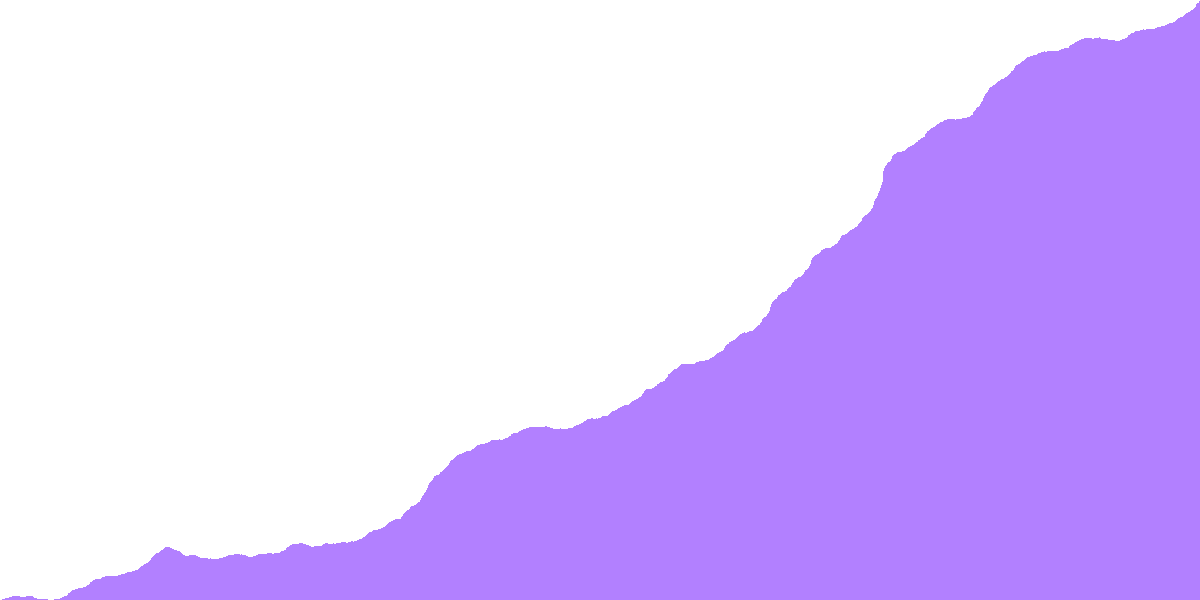
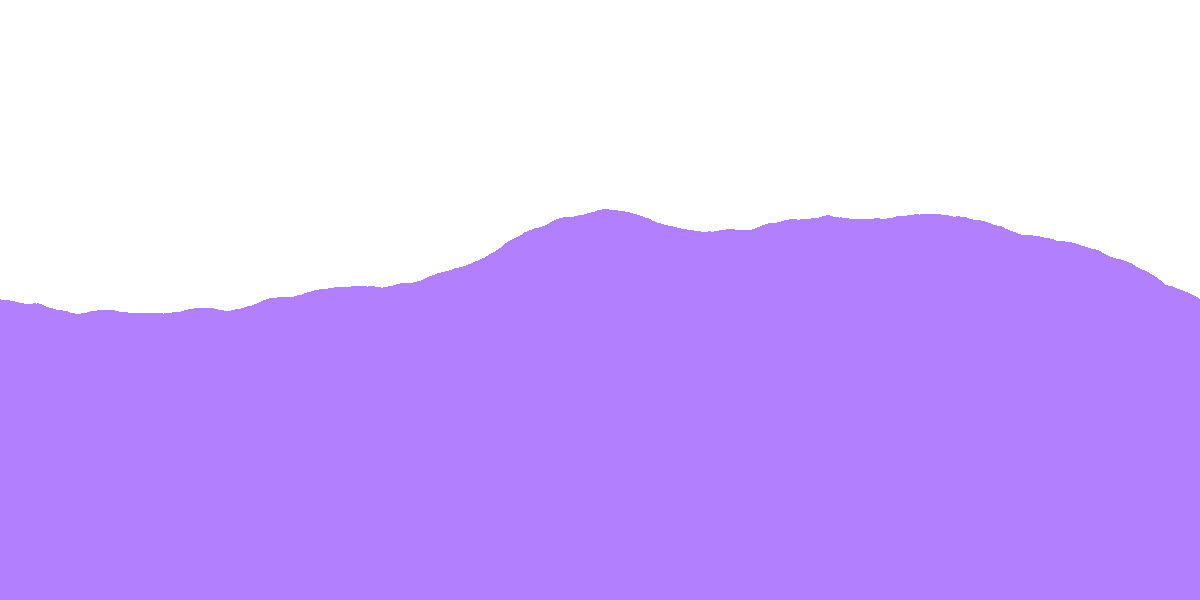
3

diff --git a/midpoint.py b/midpoint.py
@@ -5,7 +5,7 @@ import bisect
 import itertools
 import math
 
-def computeMidpoint(start, end, damp, displacement, numIterations = 10):
+def computeMidpoint(start, end, damp, displacement, numIterations, width, height):
 
     points = [start, end]
     for it in range(0, numIterations):
@@ -19,7 +19,7 @@ def computeMidpoint(start, end, damp, displacement, numIterations = 10):
         displacement /= 2
     return points
 
-def computeMidpointOrth(start, end, damp, displacement, numIterations = 2):
+def computeMidpointOrth(start, end, damp, displacement, numIterations, width, height):
 
     points = [start, end]
     for it in range(0, numIterations):
@@ -28,18 +28,24 @@ def computeMidpointOrth(start, end, damp, displacement, numIterations = 2):
             mid = list(map(lambda x: (points[i][x] + points[i+1][x]) / 2, [0,1]) )
             # compute orthognal direction
             d = [points[i][1] - points[i+1][1], points[i+1][0] - points[i][0]]
-            print(d)
-            dLen = math.sqrt(d[0]*d[0]+d[1]*d[1])
-            sc = random.choice([displacement,-displacement]) / dLen
+            #print(d)
+            invSqrt = (d[0]*d[0]+d[1]*d[1]) ** (-0.5)
+            sc = random.choice([displacement,-displacement]) * invSqrt
             dsc = [i*sc for i in d]
             mid[0]+= dsc[0]
             mid[1]+= dsc[1]
-            print(dLen,sc,mid)
+            #print(dLen,sc,mid)
             #mid[1] += random.choice([-displacement, displacement])
             newPoints.append(mid)
         for p in newPoints:
             bisect.insort(points,p)
-        displacement /= 2
+        displacement *= 2**(-damp)
+       
+     # close polygon
+    startPoint = [start[0],height]
+    endPoint = [end[0],height]
+    points.insert(0,startPoint)
+    points.append(endPoint)
     return points
 
 def main():
@@ -48,13 +54,13 @@ def main():
     height = 600
     filename = 'test2o.png'
 
-    lines = (computeMidpointOrth([0,600],[1200,0],10,100,16 ))
+    lines = (computeMidpointOrth([0,300],[1200,300],1.2,90,16,width,height ))
 
     scene = Image.new('RGBA', (width, height), "white")
     sceneDraw = ImageDraw.Draw(scene)
-    lines.insert(0,[0,600])
-    lines.append([1200,600])
-    sceneDraw.polygon(list(itertools.chain.from_iterable(lines)),fill=(100,0,255,127),outline=(255,255,0,0))
+    # lines.insert(0,[0,600])
+    # lines.append([1200,600])
+    sceneDraw.polygon(list(itertools.chain.from_iterable(lines)),fill=(100,0,255,127))#,outline=(0,255,0,255))
 
     # Save image
     print(os.getcwd())
